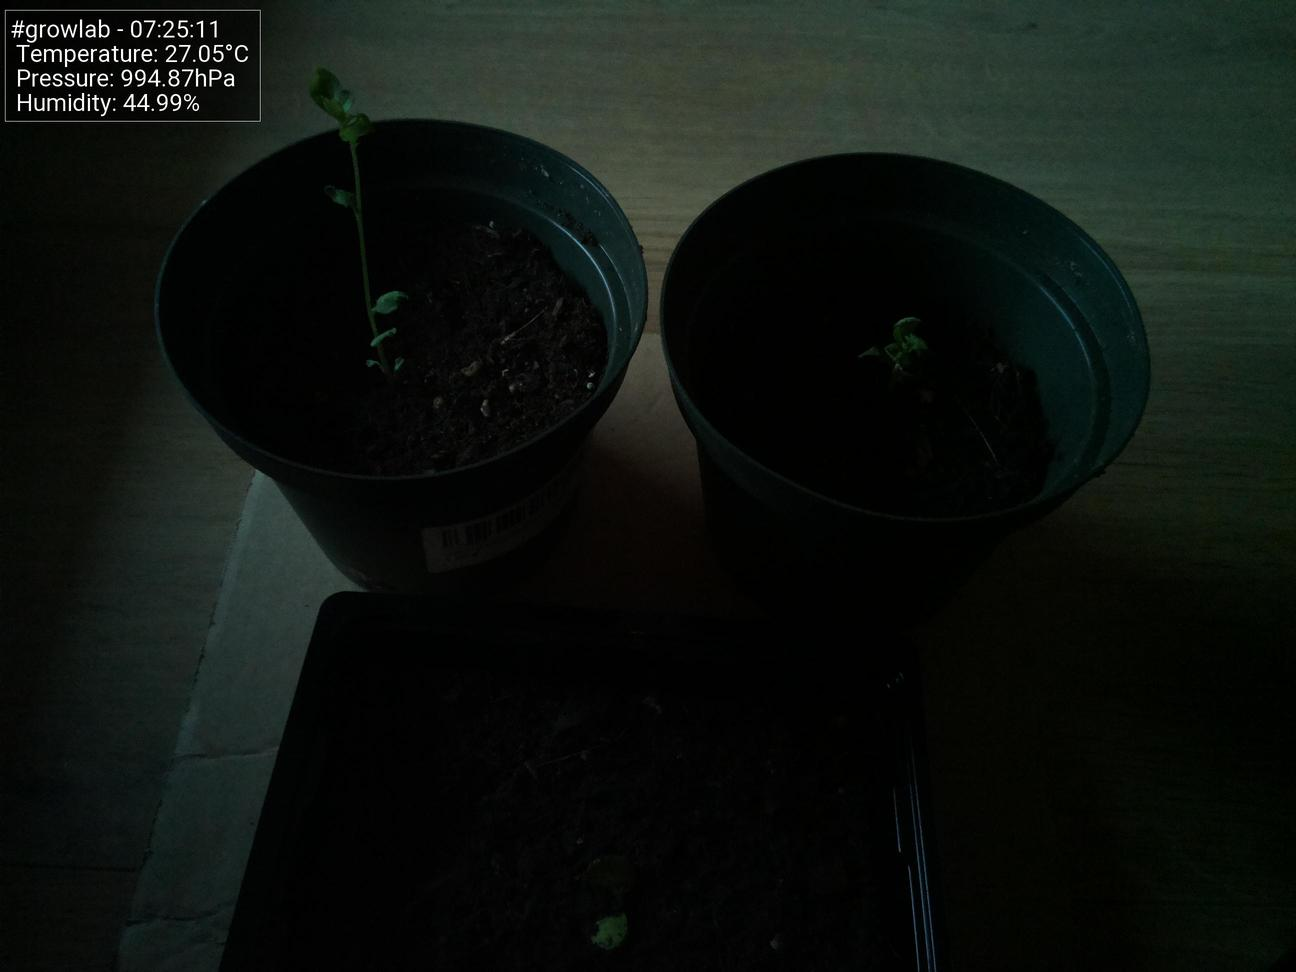
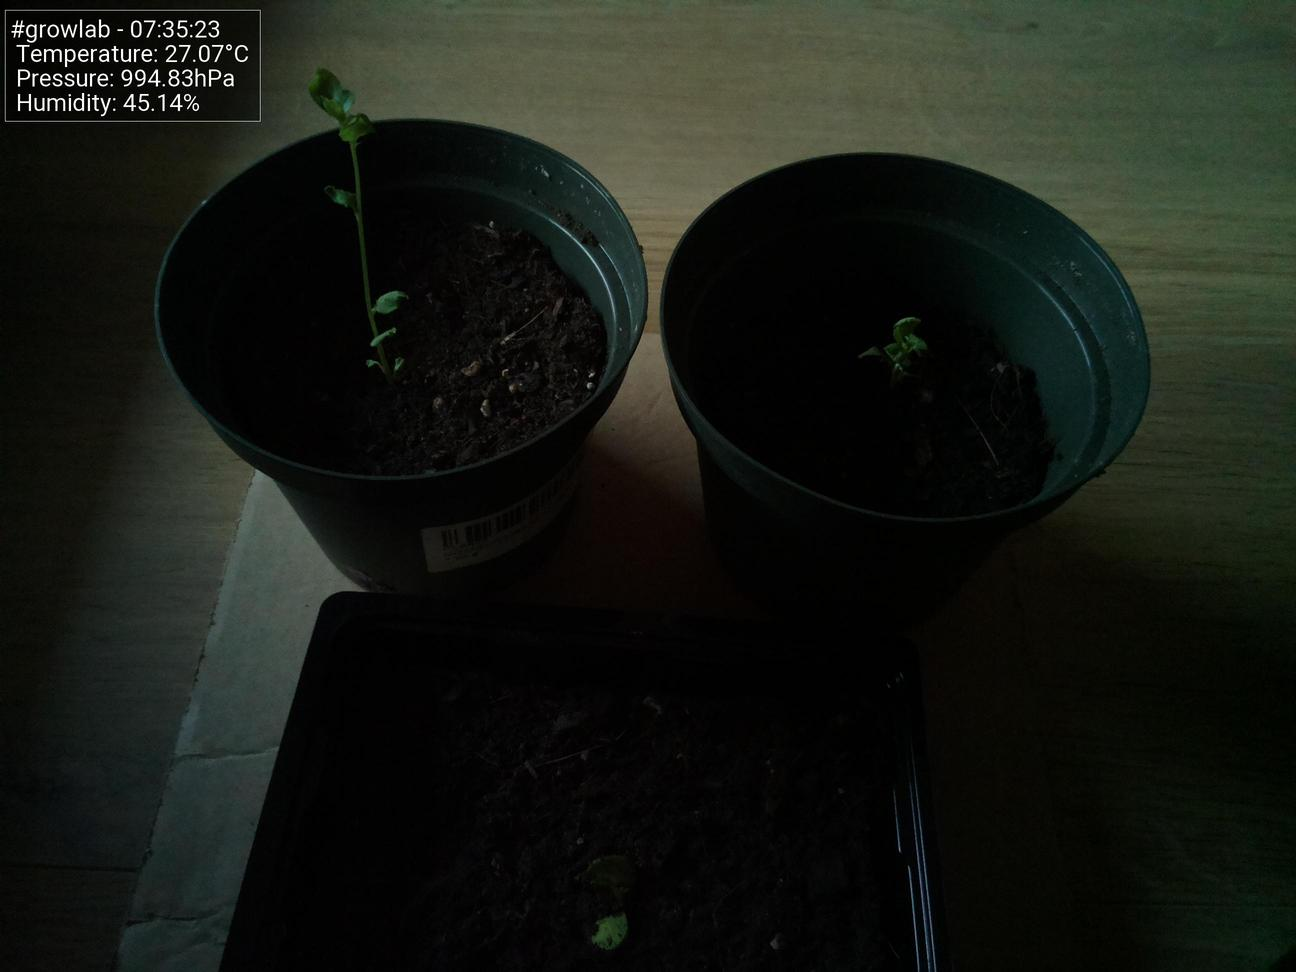
Update images at Wed 16 Jun 07:35:27 CEST 2021

Changed region(s): [[0.216, 0.0, 1.0, 0.463], [0.1543, 0.4321, 0.2778, 0.7407], [0.0926, 0.0309, 0.1852, 0.1235]]

diff --git a/docs/index.html b/docs/index.html
@@ -47,19 +47,19 @@
                         <tbody>
                             <tr>
                                 <td>Time</td>
-                                <td>07:25:11</td>
+                                <td>07:35:23</td>
                             </tr>
                             <tr>
                                 <td>Temperature</td>
-                                <td>27.05°C</td>
+                                <td>27.07°C</td>
                             </tr>
                             <tr>
                                 <td>Humidity</td>
-                                <td>44.99%</td>
+                                <td>45.14%</td>
                             </tr>
                             <tr>
                                 <td>Pressure</td>
-                                <td>994.87hPa</td>
+                                <td>994.83hPa</td>
                             </tr>
                         </tbody>
                     </table>
@@ -67,7 +67,7 @@
 
                 <h5>Latest image</h5>
                 <div style="width: 85%;">
-                            <img class="figure-img img-fluid rounded" src="./preview.jpg?uid=1623821115.8145547">
+                            <img class="figure-img img-fluid rounded" src="./preview.jpg?uid=1623821727.3966007">
                 </div>
             </div>
         </div>
